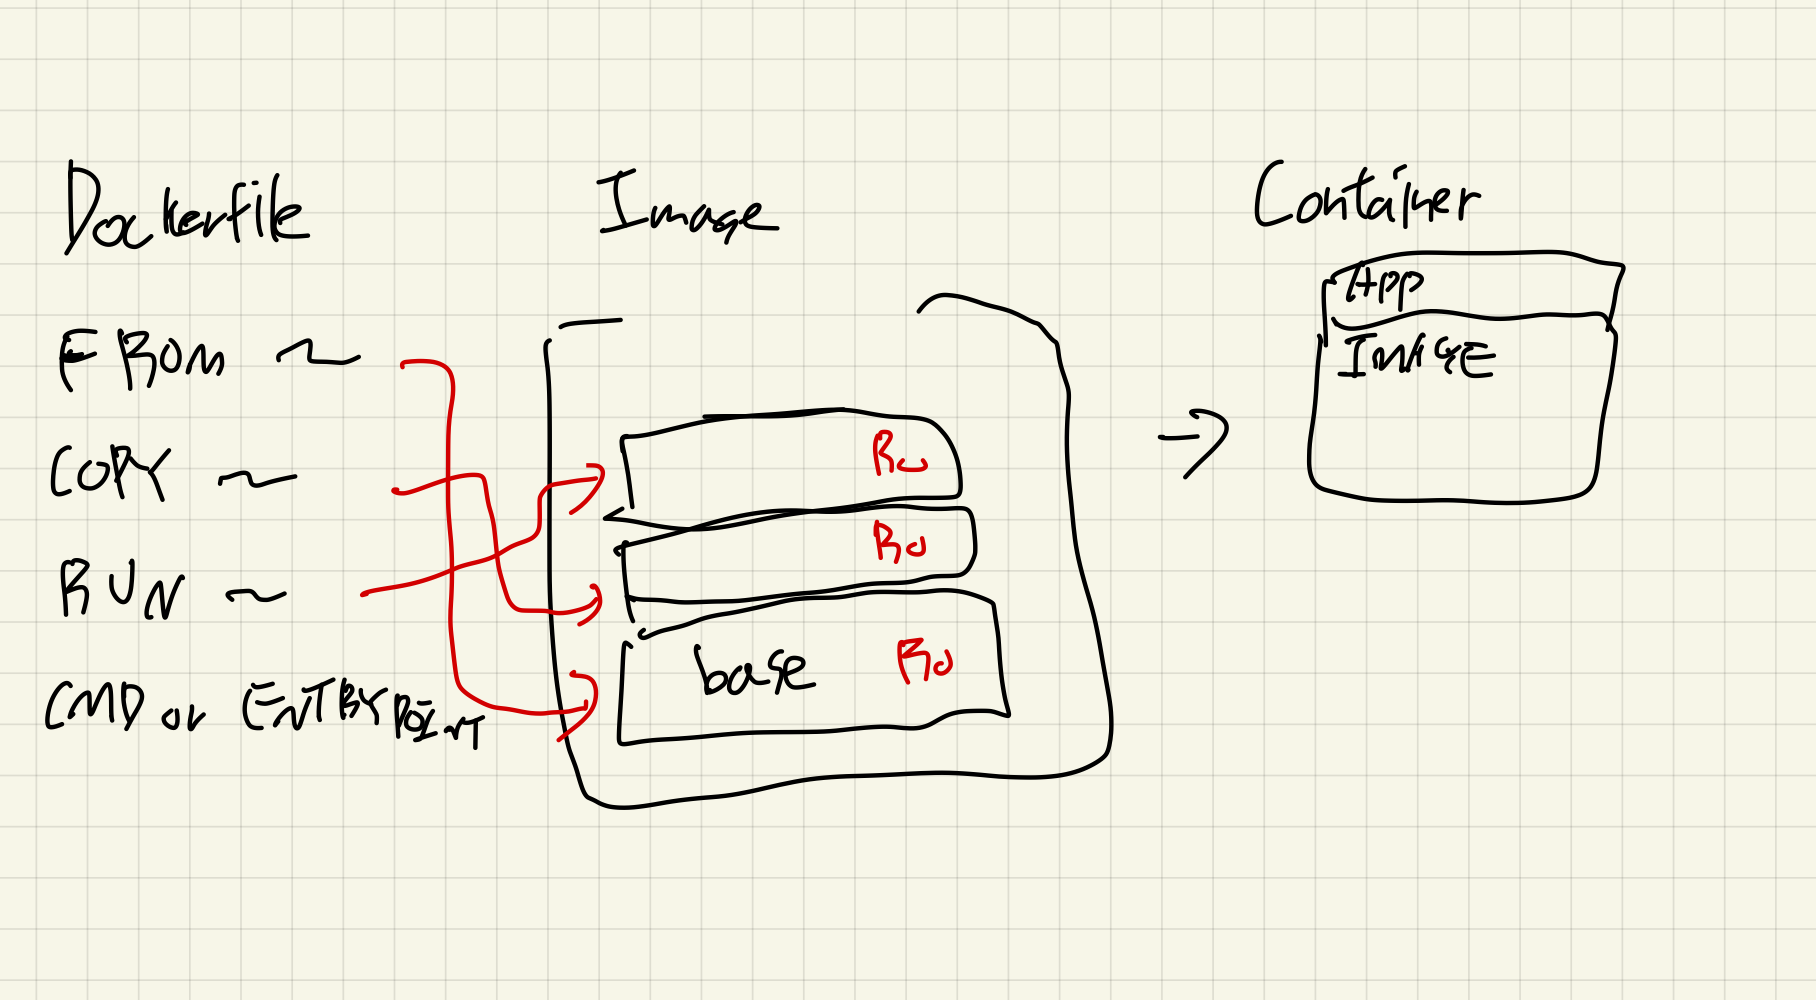
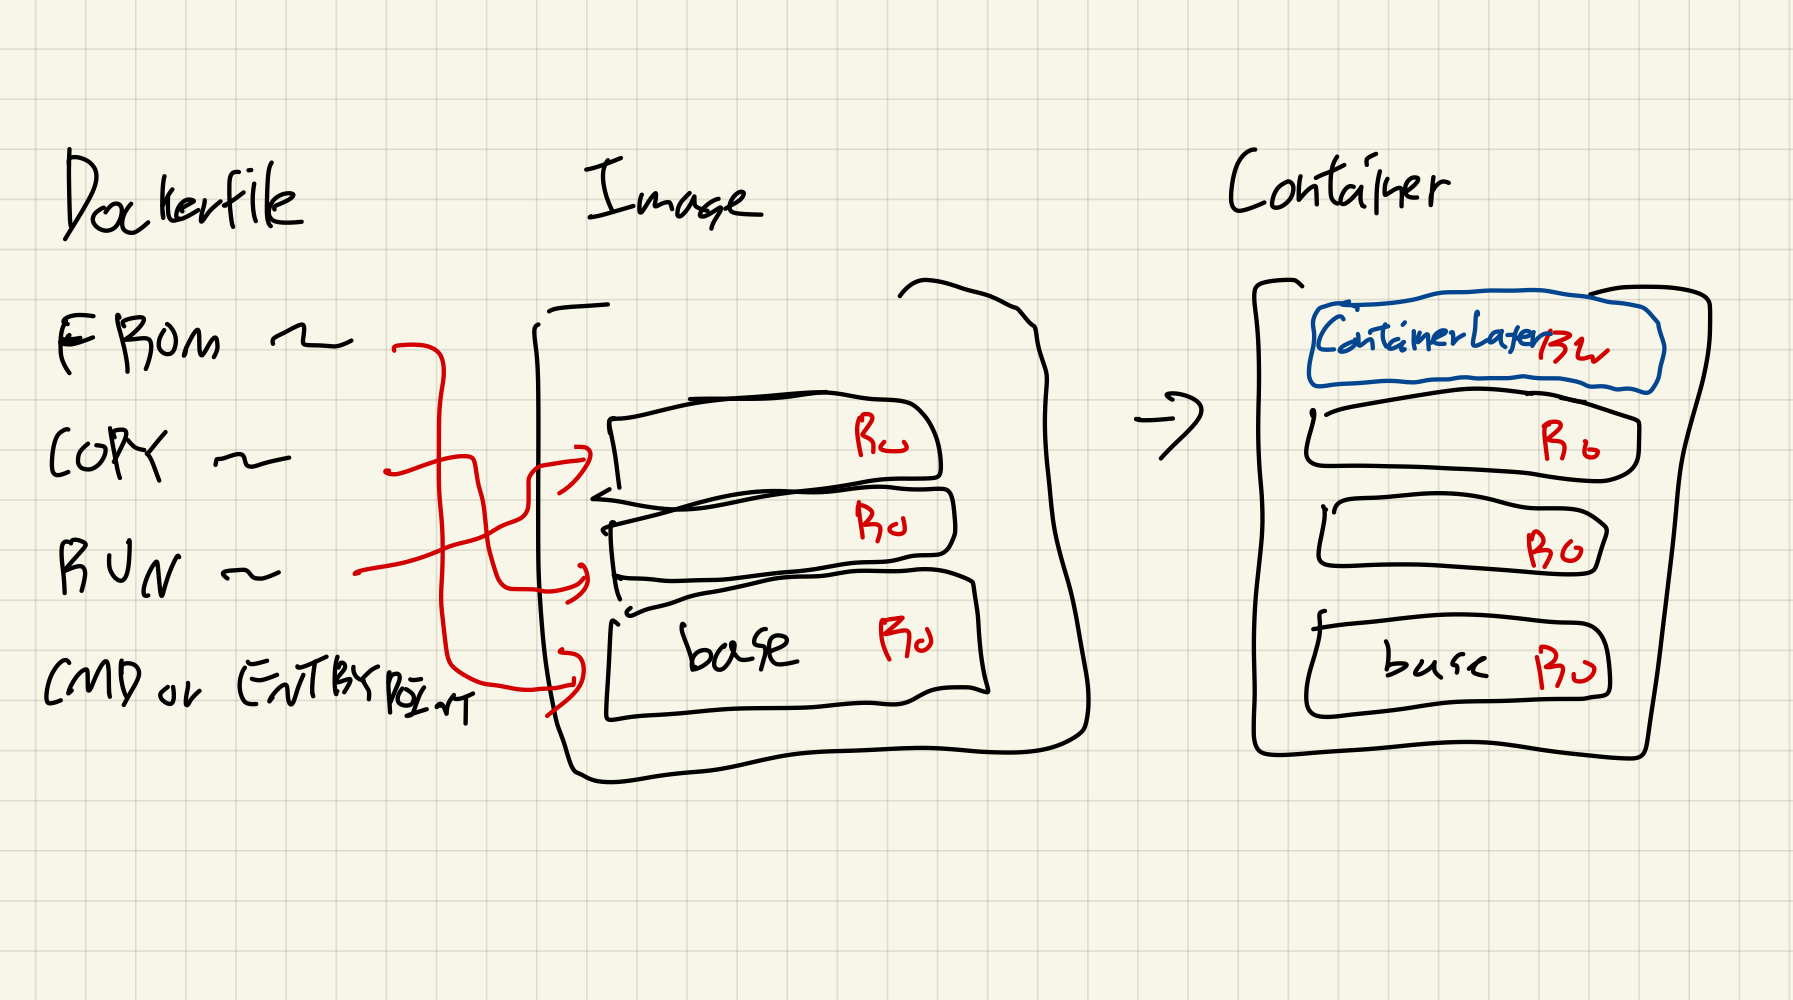
Add: Docker Image Upload(KR) + Cache explaination for Dockerfile Post

diff --git a/content/post/docker-upload-image/index.ko.md b/content/post/docker-upload-image/index.ko.md
@@ -1,0 +1,105 @@
+---
+title: "Docker에서 이미지 업로드하기"
+description: Docker에서 이미지를 업로드하는 법
+date: 2025-07-08T21:40:04+09:00
+image: "docker-logo.png"
+math: true
+license: 
+hidden: false
+comments: true
+draft: false
+
+tags:
+    - Docker
+    - Container
+
+categories:
+    - Docker
+---
+
+이전까지 우리는 이미지를 내려받고, 컨테이너를 실행하고, 이미지를 빌드하는 법을 배웠다.  
+이제, 이미지를 업로드하는 방법을 알아보자.  
+
+## 🏷 이미지 태그 변경
+이미지의 태그를 변경한다. 
+```bash
+docker tag SOURCE_IMAGE[:TAG] TARGET_IMAGE[:TAG]
+```
+
+---
+## ⬆ 이미지 업로드
+```bash
+docker push [OPTIONS] NAME[:TAG]
+```
+
+**Options:**
+- `-all-tags(-a)`: 레포지토리에 이미지의 모든 태그를 푸시한다.
+
+> **주의사항**
+> - Docker hub가 아닌, ECR이나 자체 구축한 Hub와 같이 별도의 레지스트리에 업로드하려는 경우, 이름은 **full image name**형식으로 작성되어야 한다.  
+> - Push 이전에 `docker login`을 통해서 사용할 registry에 인증해야 한다.
+
+### Full image name 포맷
+```bash
+[HOST[:PORT_NUMBER]/]PATH
+# namespace를 명시하는 경우
+[HOST[:PORT_NUMBER]/][NAMESPACE/]REPOSITORY
+```
+- `HOST`: registry의 Host
+- `PORT_NUMBER`: registry서버의 포트
+- `NAMESPACE`: 논리적 구분 단위. Docker Hub에서는 Namespace가 필수임.
+    - 없으면 library
+- `REPOSITORY`: 이미지의 이름
+
+ECR 예시는 다음과 같다:  
+```plaintext
+<aws_account_id>.dkr.ecr.ap-northeast-2.amazonaws.com/myapp:v1
+```
+ECR과 같은 경우는, URL에 이미 논리적인 구분이 적용되어있어서 `NAMESPACE`를 사용하지 않음. 
+
+Private Registry 예시는 다음과 같다:
+```plaintext
+my.registry.com:5000/mynamespace/myapp:v1
+```
+
+---
+
+## 🔑 Docker Hub 레지스트리에 로그인
+```bash
+docker login [OPTIONS] [SERVER[:PORT]]
+```
+
+**Options:**
+- `--password(-p)`: password
+- `--password-stdin`: `STDIN`으로 password를 입력
+- `--username(-u)`: username
+
+
+GitHub Container Registry에 로그인하기:
+```bash
+docker login ghcr.io
+Username: <your_username>
+Password: <Fine-grained personal access token>
+Login Succeeded
+```
+
+Docker Hub에 업로드하기:  
+```bash
+docker push riveroverflow/cloudwave:base.v1
+The push refers to repository [docker.io/riveroverflow/cloudwave]
+8016e9d19af3: Pushed
+882955112ee7: Pushed
+3fd98b9cc2bb: Pushed
+5f70bf18a086: Pushed
+7922986690e5: Pushed
+98eb01e614a6: Pushed
+8d6b7eb76b62: Mounted from library/ubuntu
+base.v1: digest: sha256:a71d873faaedddf9b1dd5d71bbe941b19fc0293f04ebb370e5075f861c1a3cd5 size: 1780
+```
+
+`docker search`로 조회: 
+```bash
+docker search riveroverflow/cloudwave
+NAME                                    DESCRIPTION   STARS     OFFICIAL
+riveroverflow/cloudwave                               0
+```
